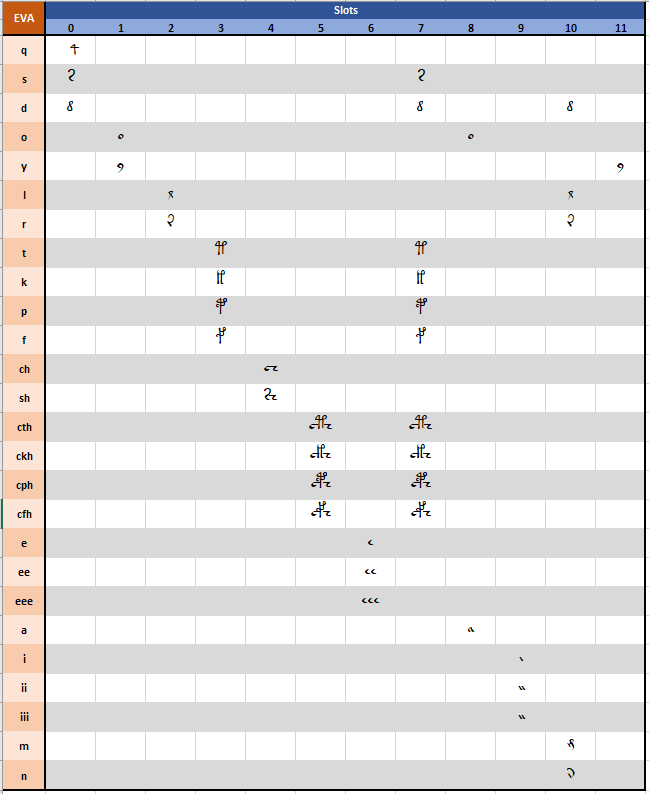
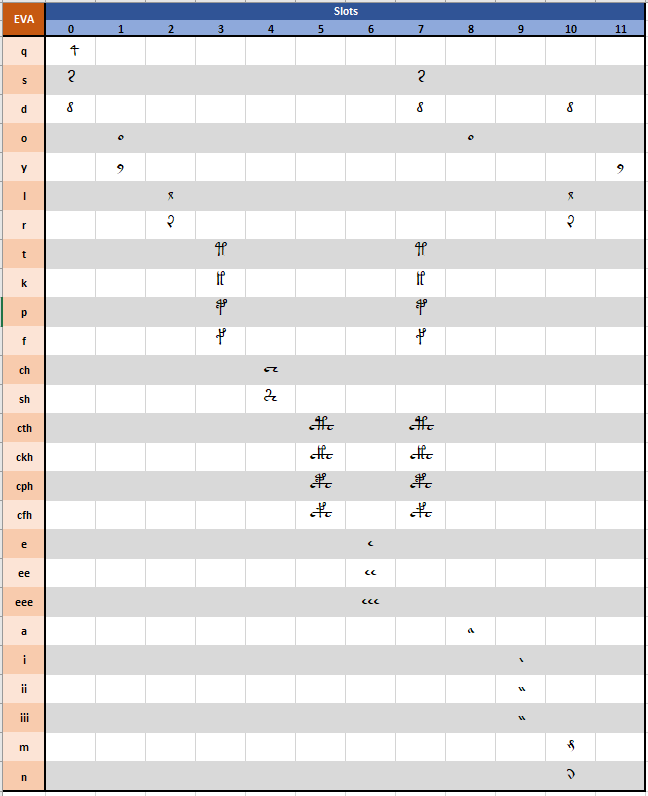
Publishing...

diff --git a/docs/005/index.md b/docs/005/index.md
@@ -13,21 +13,28 @@ library code and JavaDoc._
 
 ---
 
+In this note, when referring to characters in the Voynich we will use the EVA alphabet in quotes, unless differently specified (e.g. 'o'). 
+In some cases, we will put Voynich script (e.g. text ass it looks in the Voynich),
+which might appear as EVA characters if the feature is not supported by your machine.
+
+
 # Abstract
 
 We show how the structure of Voynich words can be easily described by assuming each term is composed by "slots" that can be filled
 accordingly to simple rules, which are described below.
 
-This in turn sheds some lights on the definition of Voynichese characters (the Voynich alphabet).
+This in turn sheds some lights on the definition of what constitute a Voynich character (the Voynich alphabet).
 
 Given the nature of this topic, it is impossible to define rules that apply to 100% of cases; after all, syntactical and grammatical exceptions
-exists in any modern text as well. However, we will try to make claims that apply to the vast majority of cases. 
+exists in any modern text as well. However, we will try to focus on claims that apply to the vast majority of cases. 
+
 
 # Previous Works
 
 **TODO** _add the core/mantel/crust and the state machine works_.
 
 - This approach is easier to explain and has more implications.
+
 
 # Methodology
 
@@ -39,13 +46,13 @@ For reasons explained below, any occurrence of the following EVA characters is a
 
 - 'g', 'x', 'v', 'u' (40 occurrences in total, in 13 of them these characters appear alone in the text).
 
-- 'c' and 'h', when they do not appear as 'ch', 'sh' or 'cXh', where 'X' is one of the "gallows" ('t', 'k', 'p', 'f');
-this sums up to 8 occurrences.
+- 'c' and 'h', when they do not appear as "pedestal" ('ch', 'sh') or in "pedestalled gallows" ('cth', 'ckh', 'cph', 'cfh');
+this sums up to 8 occurrences [{3}](#Note3)).
 
-As a second step, **tokens** are created by splitting the text where a space was detected by at least one of the transcribers.
+As a second step, **tokens** are created by splitting the text where a space was detected by at least one of the transcribers; there are 31'317 tokens in the text.
 
-The list of **terms** is the list of tokens without repetition (this would be the "vocabulary" of the Voynich). These terms have then been analyzed as
-explained below.
+The list of **terms** is the list of tokens without repetition (this would be the "vocabulary" of the Voynich).
+These 5'105 total terms have then been analyzed as explained below.
 
 # Considerations
 
@@ -58,9 +65,9 @@ as follows:
 
 - the choice of Voynich characters that can occupy a slot is very limited and for 8 out of 12 slot it is as low as 2-3 possible characters.
 
-- each Voynich character can appear in only one or two slots (with exception of EVA 'd' that can appear in three different slots.
+- each Voynich character can appear in only one or two slots, with exception of 'd' that can appear in three different slots.
 
-The below table summarizes these rules, showing for each of the 12 slots the Voynich characters that can occupy it.
+The below table summarizes these rules, showing the 12 slots and the Voynich characters that can occupy them.
 
 ![Slots](images/Slots Table.PNG)
 
@@ -93,7 +100,7 @@ chcthor
 
 We then see [{2}](#Note2) that tokens can be classified as follows:
 
-- 27'743 tokens (88.6% of total), corresponding to 2'820 different terms (55.2% of total), can be decomposed by using the above rules. We will call these words "**regular**".
+- 27'743 tokens (88.6% of total), corresponding to 2'820 different terms (55.2% of total), can be decomposed in slots accordingly to the above rules. We will call these words "**regular**".
 
 - 2'956 tokens (9.4% of total), corresponding to 1'856 different terms (36.4% of total), can be divided in two parts, each composed by at least two Voynich characters, 
 where each of these parts is a regular term. We will call these words "**separable**".
@@ -109,7 +116,8 @@ where each of these parts is a regular term. We will call these words "**separab
 - Remaining 618 tokens (2.0% of total), corresponding to 429 different terms (8.4% of total), are marked as "**unstructured**".
 
   **TODO** Show that vast majority of unstructured words appear only once in the text. This is probably true for separable too.
-  
+
+- Sometime we contrast regular and separable terms to unstructured ones by calling th eformer ***structured***.  
 
 The below table summarizes these findings.
 
@@ -200,7 +208,7 @@ UNSTRUCTURED	theody	1
 UNSTRUCTURED	doFhy	1
 UNSTRUCTURED	Fhy	1
 
-**TODO** Why stooled gallows are not ligature of stool + gallow
+**TODO** Why pedestaled gallows are not ligature of pedestal + gallow
 
 ### The Slot Alphabet 
 
@@ -209,6 +217,8 @@ UNSTRUCTURED	Fhy	1
 **TODO** Comparison with other alphabets.
 
 **TODO** Create transcription.
+
+**TODO** Create HTML version.
 
 # Conclusions 
 
@@ -228,7 +238,9 @@ We think this analysis provide some support for defining the alphabet used by th
 
 <a id="Note2">**{2}**</a> Class ['Slots']() has been used to perform this analysis. An Excel with its output can be found in the
 [analysis folder]().
- 
+
+<a id="Note3">**{3}**</a> For a definition of "pedestal", "gallows", and "pedestalled gallows" and a tour of the Voynich script
+see [here](http://www.voynich.nu/writing.html).
 ---
 
 [**<< Home**](..)
